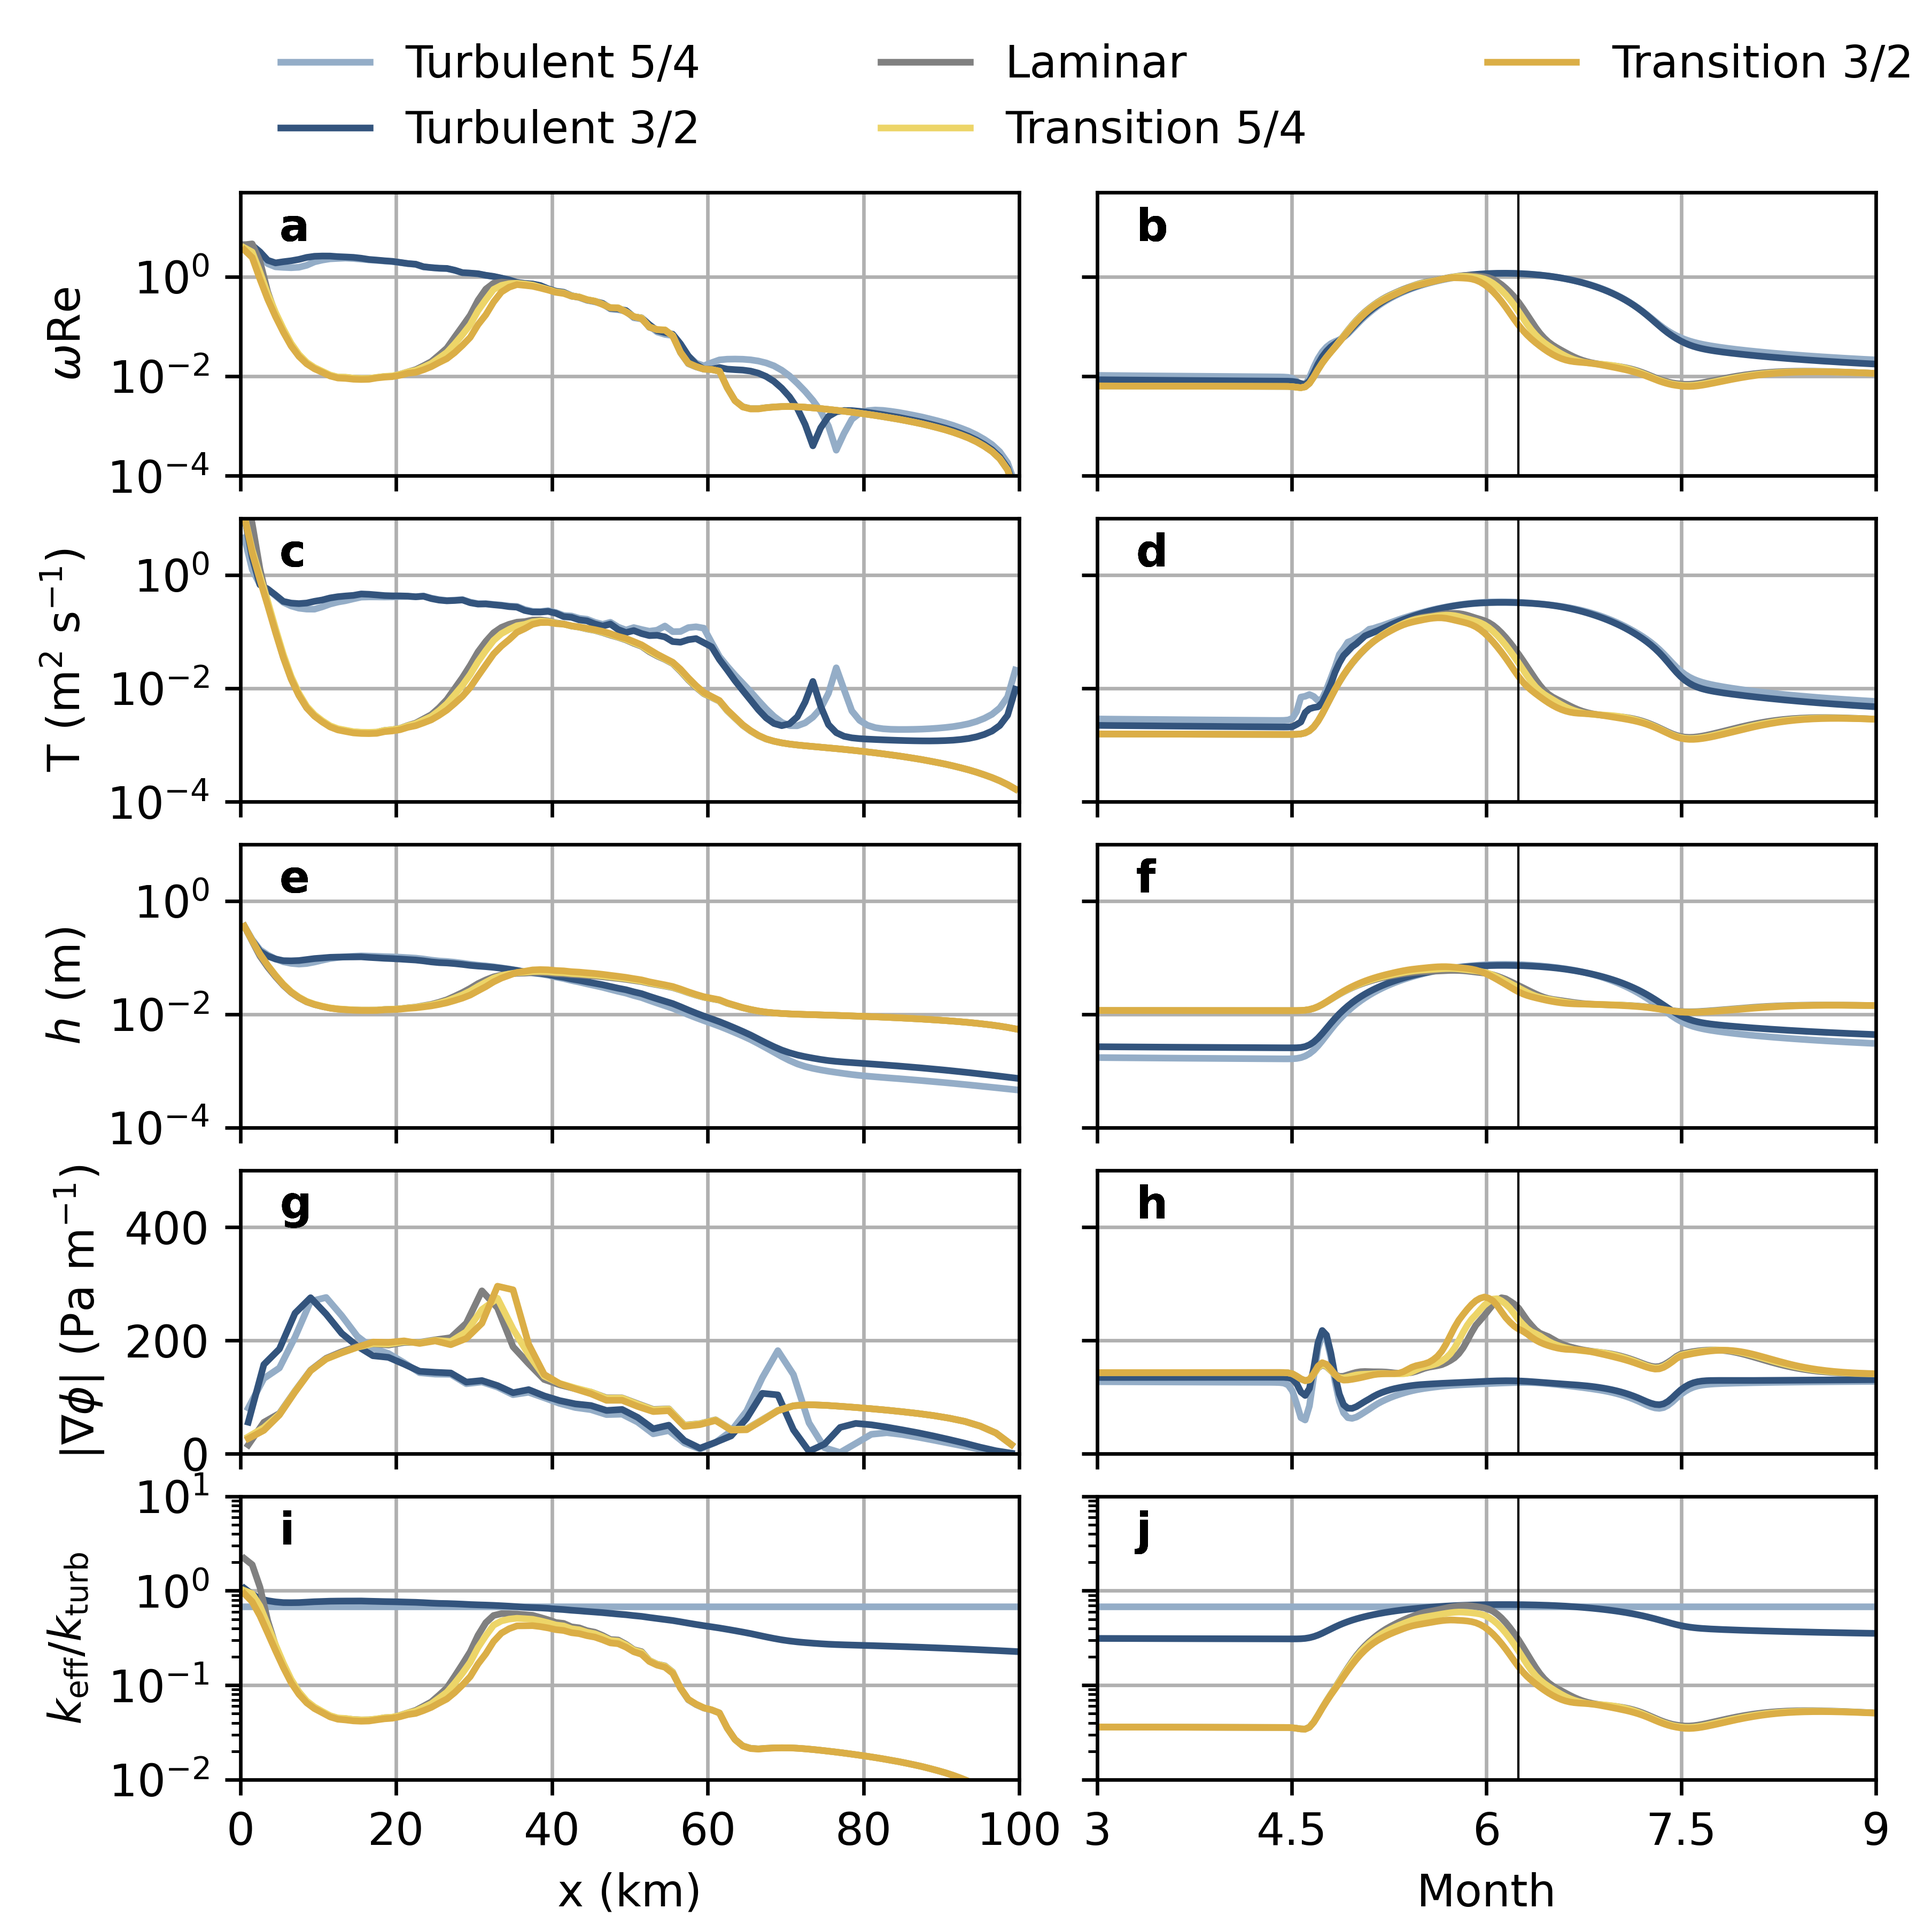
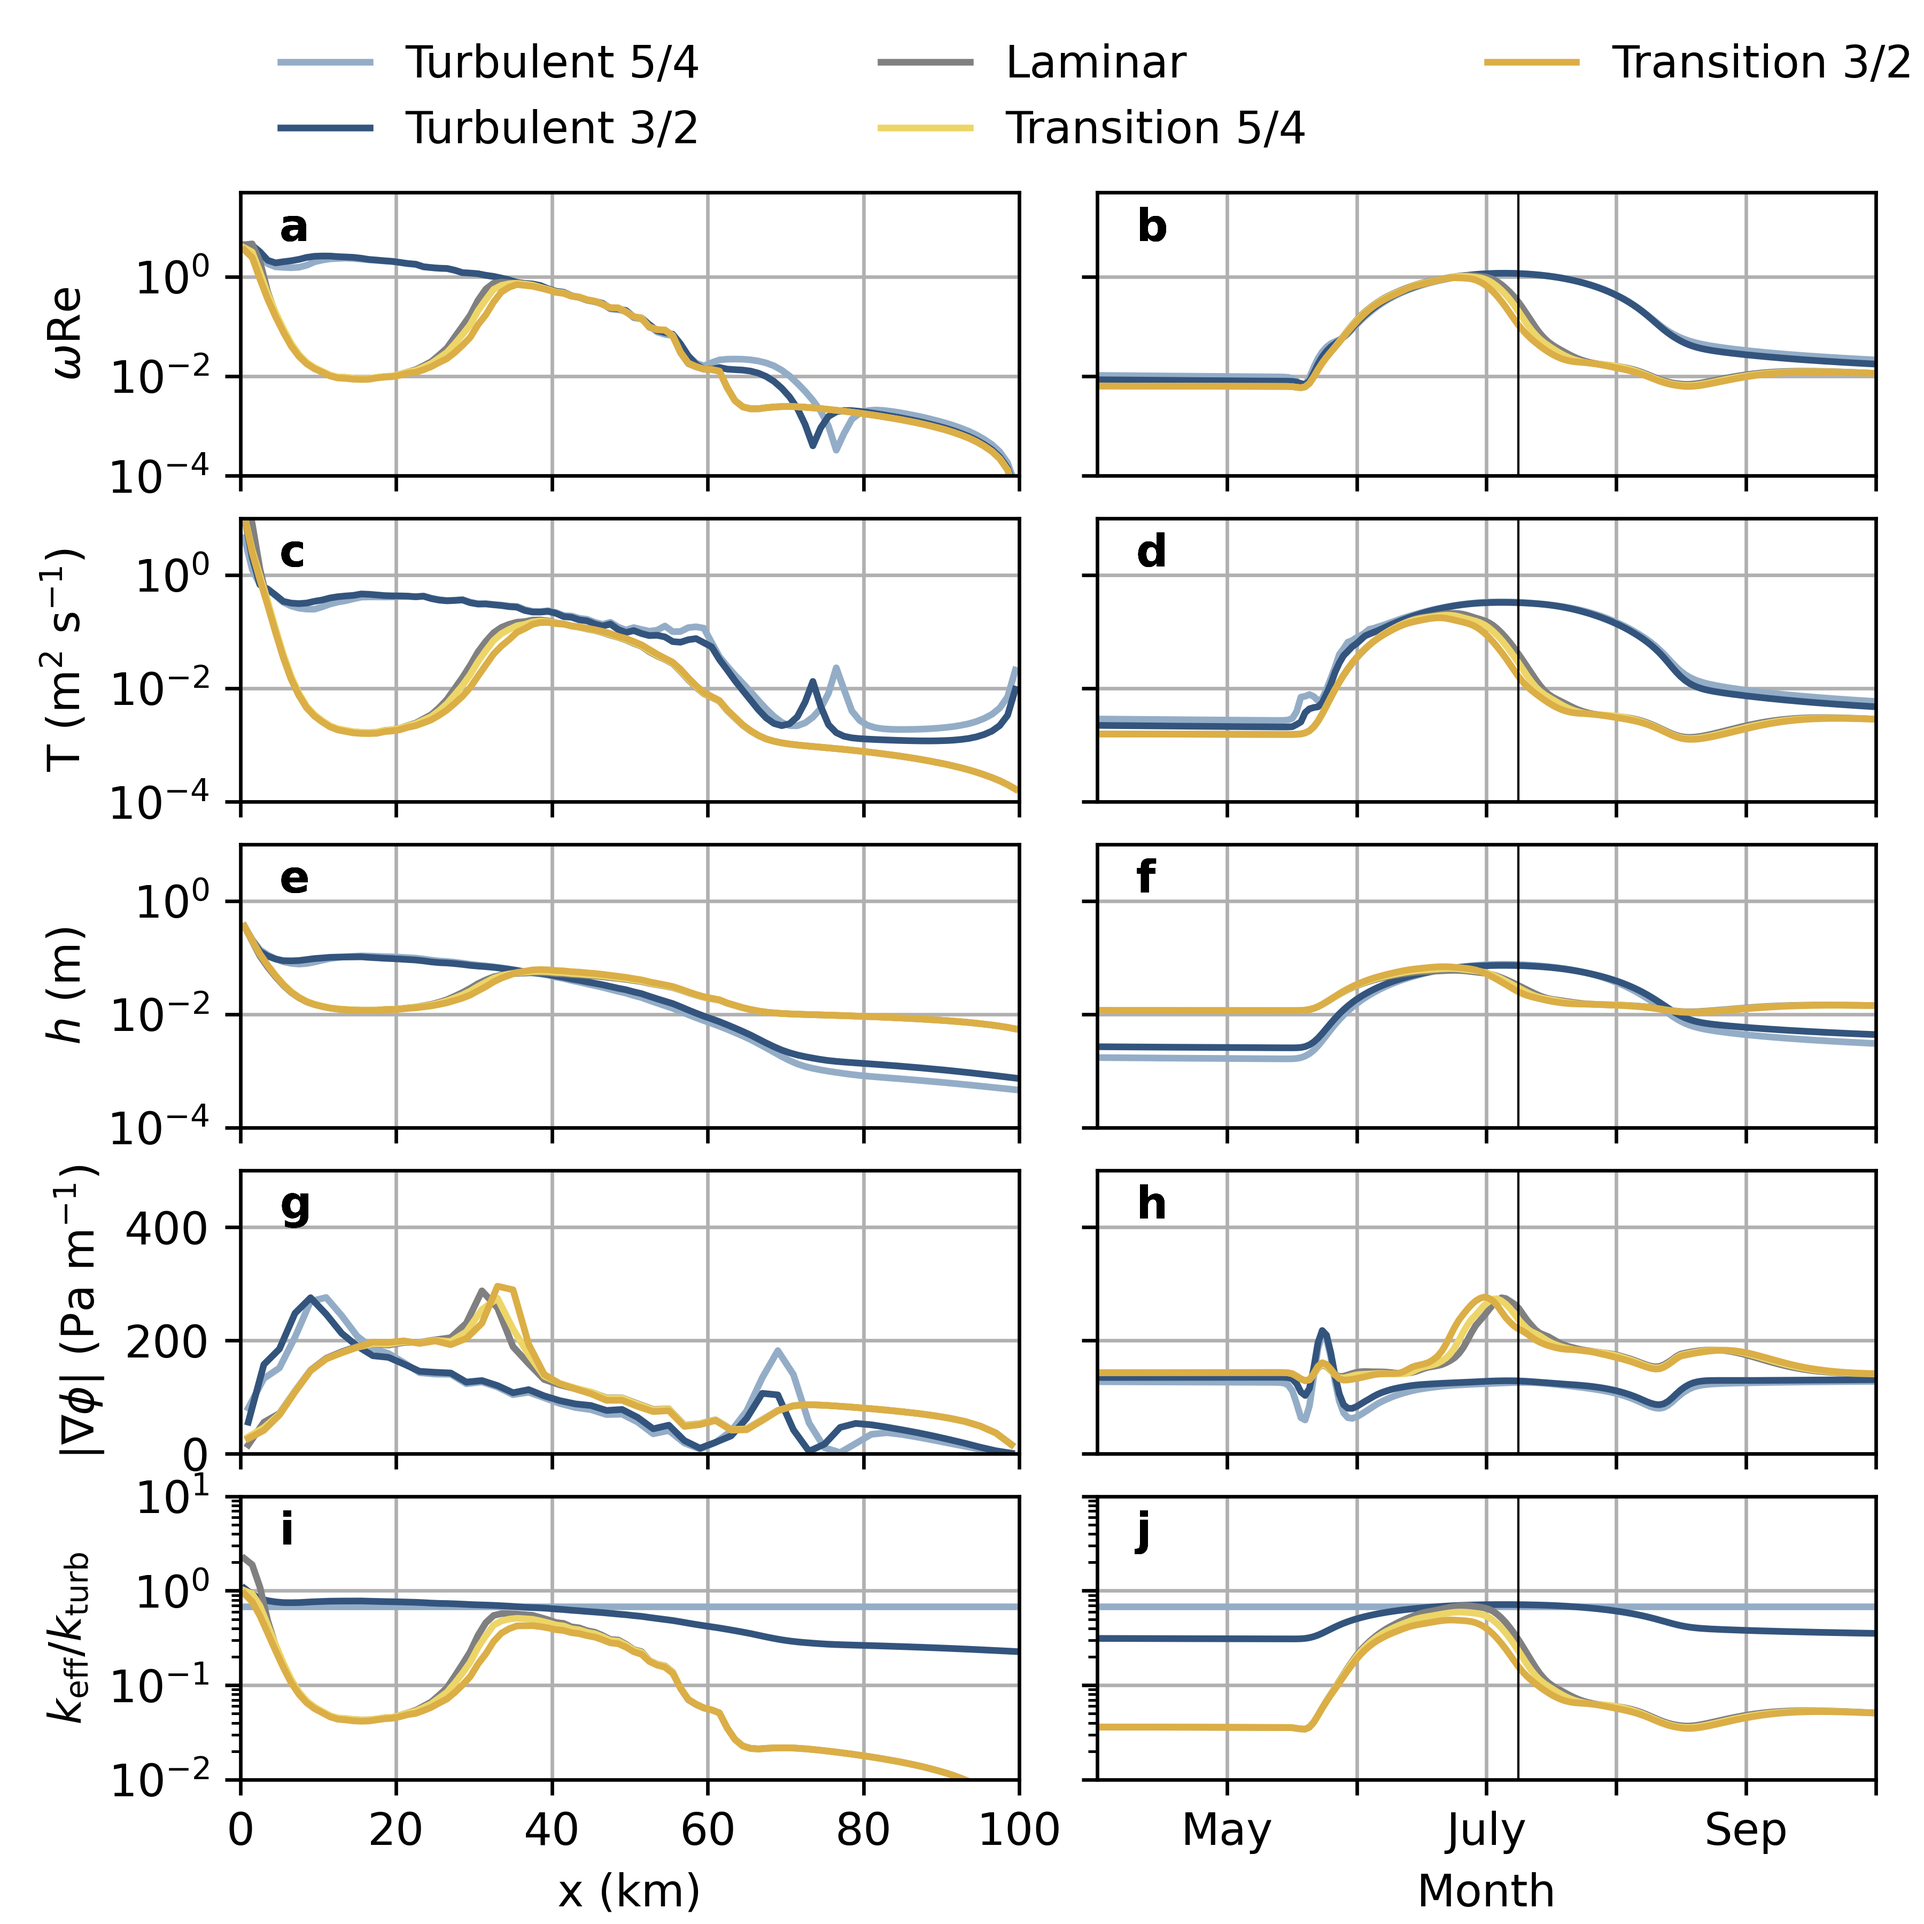
figs

diff --git a/analysis/make_mechanisms.py b/analysis/make_mechanisms.py
@@ -18,4 +18,14 @@ fig_00 = plot_mechanisms(fnames, figname, models, omega=1/2000,
     k_turb=0.0137799761144865)
 
 
+## Case 00a: Flat topo, SHMIP forcing
+cases = [1, 2, 3, 4, 5]
+fnames = ['../glads/00a_shimp_adj_forcing_shmip_topo/RUN/output_%03d_seasonal.nc'%caseid for caseid in cases]
+figname = '00a_mechanisms_day165.png'
+models = defaults.labels
+fig_00 = plot_mechanisms(fnames, figname, models, omega=1/2000,
+    k_turb=0.0137799761144865, tslice=530)
+
+
 plt.show()
+

diff --git a/analysis/plot_moody_scatter.py b/analysis/plot_moody_scatter.py
@@ -25,7 +25,6 @@ cases = [1, 2, 3, 4, 5]
 fnames = ['../glads/00_shmip_forcing_shmip_topo/RUN/output_%03d_seasonal.nc'%caseid for caseid in cases]
 
 models = ['Turbulent 5/4', 'Turbulent 3/2', 'Laminar', 'Transition 5/4', 'Transition 3/2']
-fnames = [pattern%id for id in cases]
 print(fnames)
 
 colors = defaults.colors
